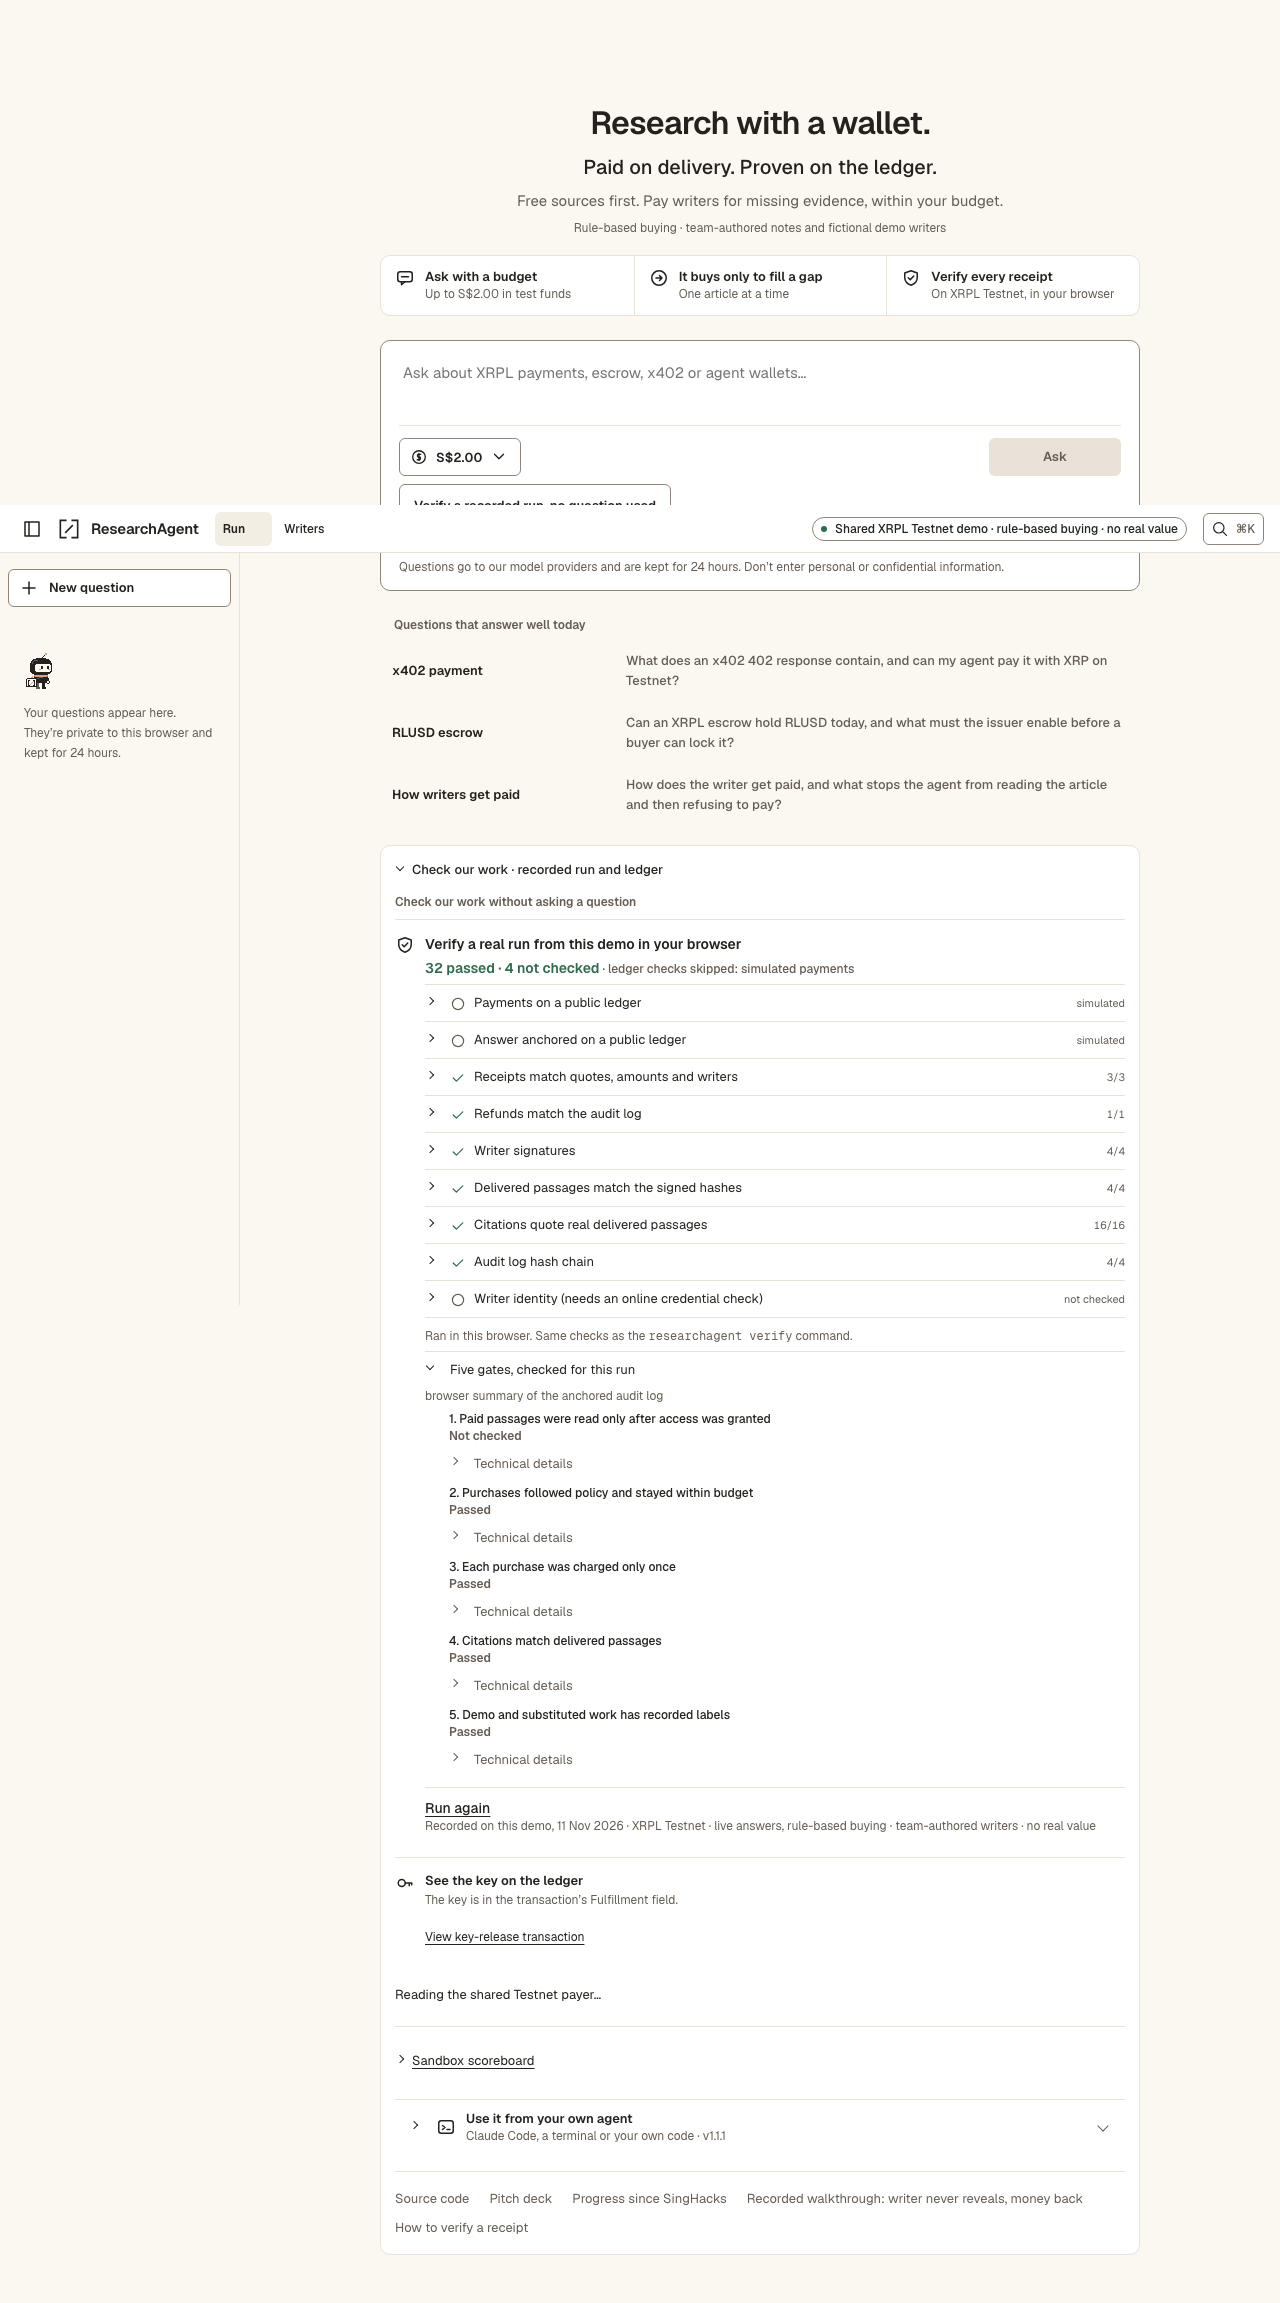
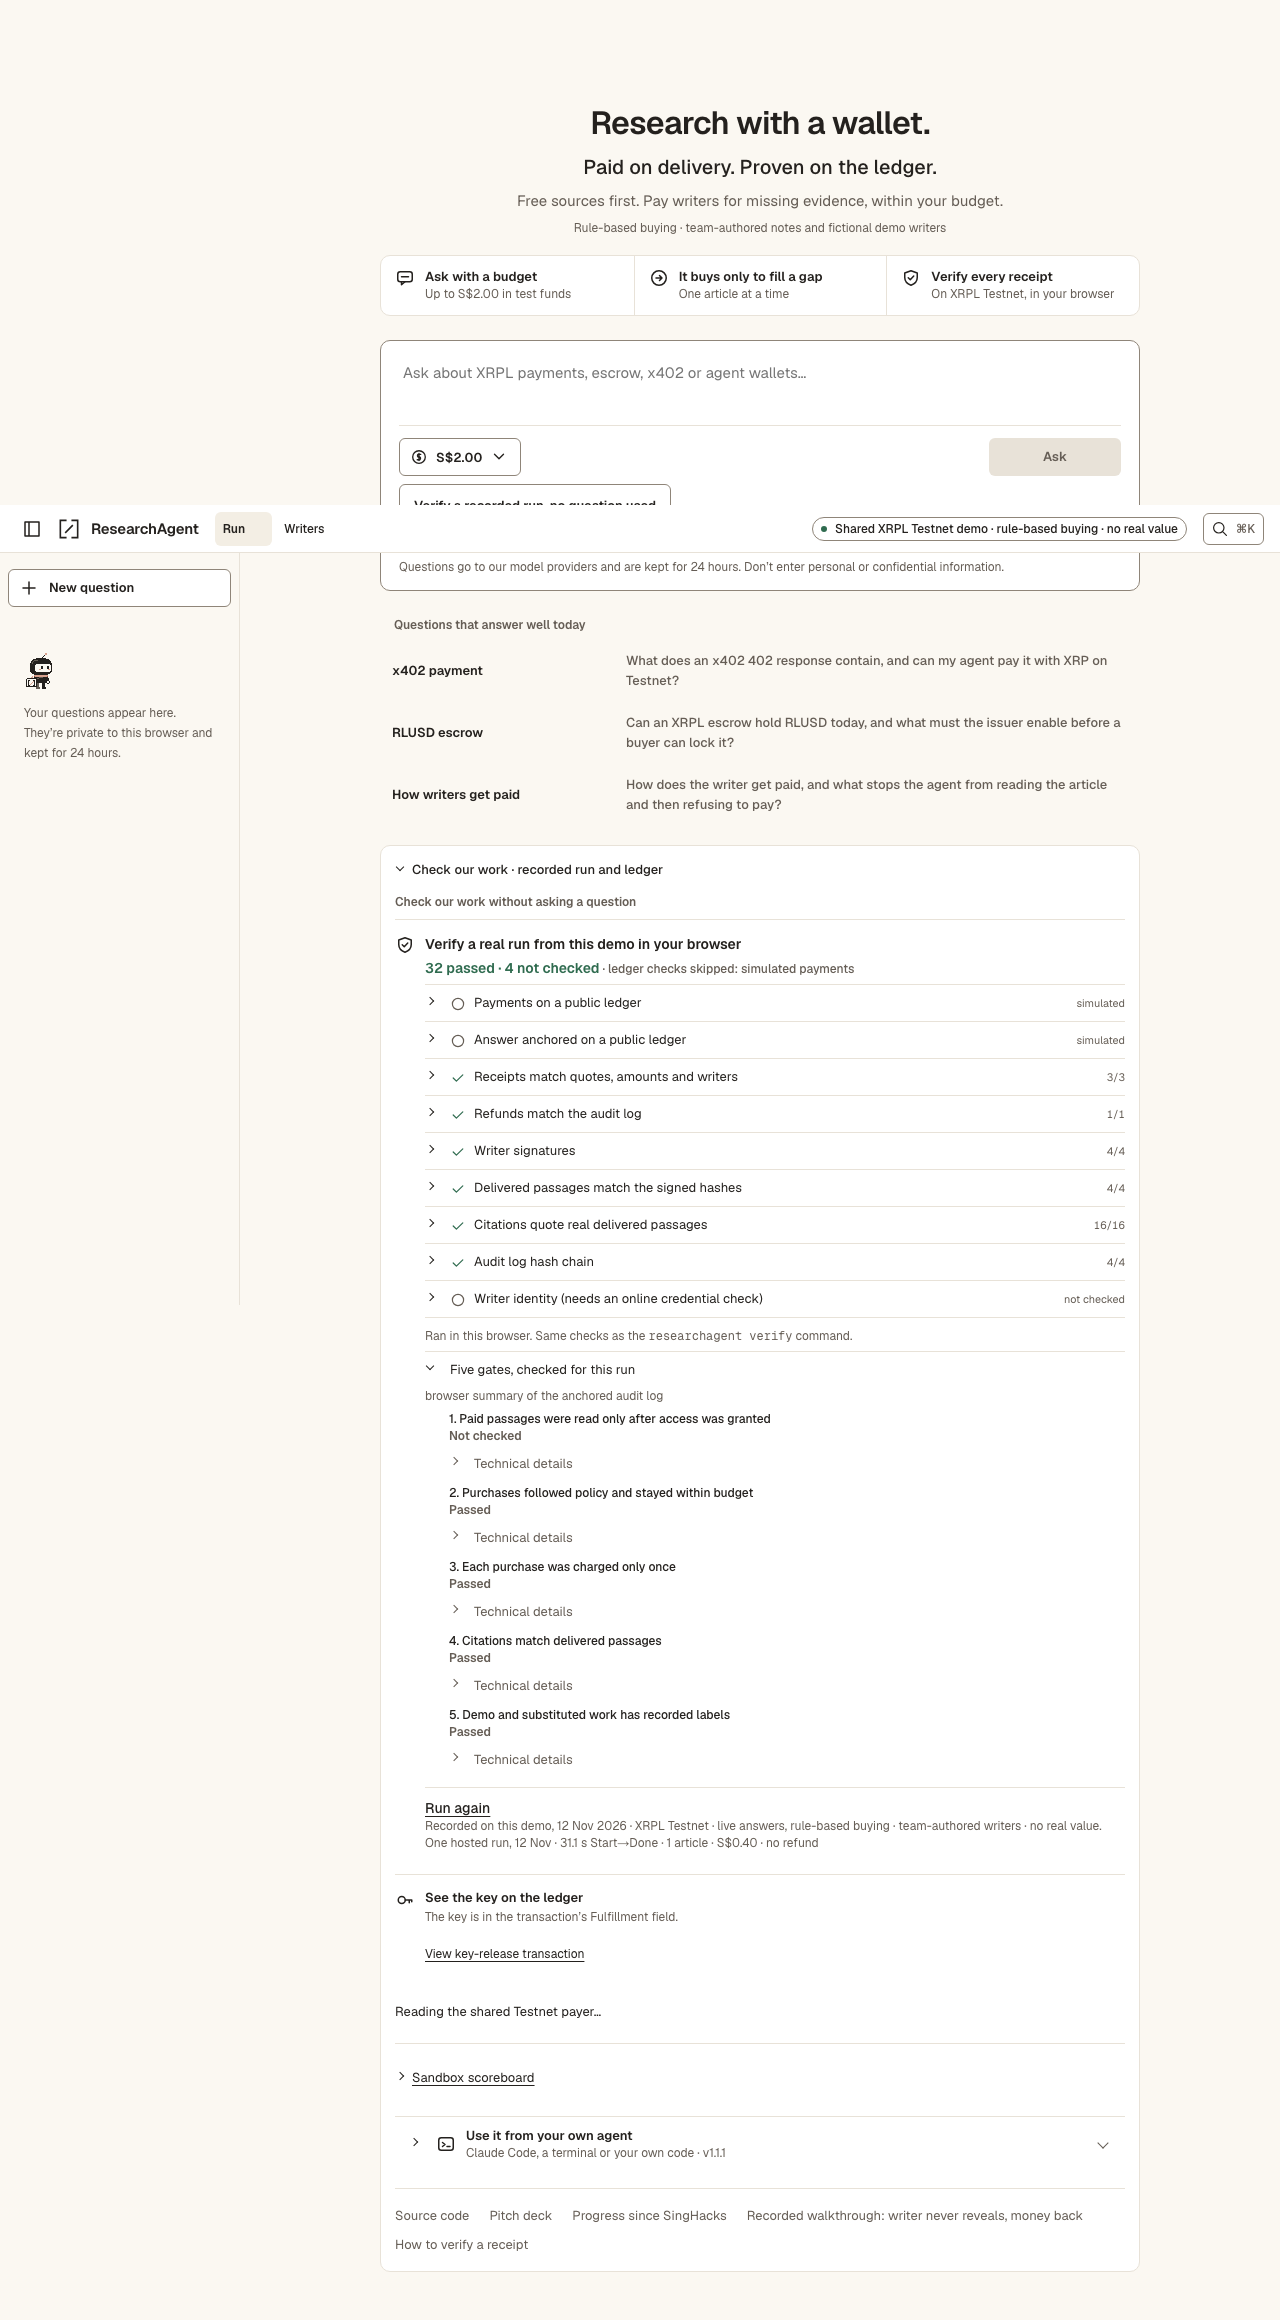
test(ui): refresh evidence for the featured Nov 12 recording

diff --git a/tests/ui-a.spec.ts b/tests/ui-a.spec.ts
@@ -9,6 +9,7 @@ const bundle = JSON.parse(readFileSync('docs/evidence/round4-j1/replays/simulate
 const provenance = 'ResearchAgent builders · XRPL explainers (team-authored) · team-authored explainer · sources cited · not an independent writer · Testnet'
 const status = { questionCapMinor: 200, state: 'ready', csrfToken: 'layout-only', queue: [], capabilities: { ask: true, scope: true, history: true, receipts: true, pdf: false, settings: false, faultControls: false }, remaining: { questions: 5, minor: 1000 }, labels: { models: 'fixture models', rail: 'Shared XRPL Testnet demo · no real value' }, links: { repo: 'https://github.com/Collaboration95/theFastandtheFungible', deck: '', video: '', progress: '', replay: '' } }
 const before = process.env.UI_A_BEFORE === '1'
+const recordedBundlePath = before ? '/judge/hosted-run-nov11.receipts.json' : JSON.parse(readFileSync('shared/judge-run.json', 'utf8')).bundleUrl
 for (const width of [1280, 390]) test(`UI-A fixes at ${width}`, async ({ page }) => {
   await page.setViewportSize({ width, height: width === 390 ? 844 : 800 })
   const run = structuredClone(trace.run)
@@ -24,7 +25,7 @@ for (const width of [1280, 390]) test(`UI-A fixes at ${width}`, async ({ page })
     if (path === '/api/runs') return route.fulfill({ json: [] })
     if (path === '/api/writers/earnings') return route.fulfill({ json: { scope: 'Your purchases and trust come from your retained history. Sales on this demo since 11 Nov include all visitors.', writers: [{ slug: 'team-builder-notes', publisherSlug: 'team-builder-notes', name: 'ResearchAgent builders · Build notes (team-authored)', authorship: 'Team-authored', articleCount: 24, articles: [], priceRange: [40, 40], sales: [], trust: [], demoSales: 24 }] } })
     if (path.endsWith('/events')) return route.fulfill({ contentType: 'text/event-stream', body: '' })
-    if (path.endsWith('/receipts.json') || path === '/judge/hosted-run-nov11.receipts.json') return route.fulfill({ json: bundle })
+    if (path.endsWith('/receipts.json') || path === recordedBundlePath) return route.fulfill({ json: bundle })
     if (path.startsWith('/runs/')) return route.fulfill({ json: run })
     if (path.startsWith('/api/')) return route.fulfill({ status: 404, json: {} })
     if (new URL(route.request().url()).hostname !== '127.0.0.1') return route.abort()

diff --git a/docs/evidence/ui-a/README.md b/docs/evidence/ui-a/README.md
@@ -16,7 +16,7 @@ These are browser viewport checks, not physical-device evidence or a deployed re
 
 The repeatable tests use the committed no-show replay, a synthetic writers response with 24 demo sales, and a layout-only long publisher label. The label is applied to a candidate in memory solely to reproduce the clipping case; signed content and receipts are unchanged. The home Verify response is replaced with a committed simulated UC2 receipt bundle for offline layout checks. These screenshots do not establish a new Testnet payment or new paid-read telemetry.
 
-Separately, the shared preview opened the actual committed `public/judge/hosted-run-nov11.receipts.json` and checked it against the public Testnet node: **45 passed · 2 not checked**, gate 1 Not checked and gates 2–5 Passed. `after-live-recorded-verify-390.png` shows the result; `before-hosted-verify-390.png` is the supplied WALK-1 screenshot (historical hosted deployment, not the local baseline). No new question, payment, provider call or ledger write was made for that check.
+After rebasing onto the new featured proof from PR #511, the shared preview opened the actual committed `public/judge/hosted-run-nov12.receipts.json` and checked it against the public Testnet node: **24 passed · 2 not checked**, all five gates Passed and expanded by default. `after-live-recorded-verify-*.png` show the result; `live-recorded-verify.json` retains the exact headlines and technical text. The earlier Nov 11 recording had 45 passed and 2 not checked, with gate 1 Not checked. `before-hosted-verify-390.png` is the supplied WALK-1 screenshot (historical hosted deployment, not the local baseline). No new question, payment, provider call or ledger write was made for that check.
 
 ## Layout-shift regression
 
@@ -24,7 +24,7 @@ The first locked gate found UC2 replay CLS **0.052649** against the unchanged **
 
 ## Bundle
 
-Node 22.23.4 manifest traversal, including static imports: **158,315 → 158,782 bytes gzip**, below the task’s **160,000 B** limit. Optional verifier/gates stay lazy. The repository’s existing 170,000-byte gate was not changed; the UI-A browser test separately enforces the stricter 160,000-byte requirement.
+Node 22.23.4 manifest traversal, including static imports: **158,315 → 158,900 bytes gzip**, below the task’s **160,000 B** limit. Optional verifier/gates stay lazy. The repository’s existing 170,000-byte gate was not changed; the UI-A browser test separately enforces the stricter 160,000-byte requirement.
 
 ## Reproduce
 

diff --git a/docs/SFF-PUSH.md b/docs/SFF-PUSH.md
@@ -10,7 +10,7 @@ something significant: a feature, a metric move, a finished deliverable. Don't
 add an entry for every small fix. One line per item, newest day first; link the
 PR or issue.
 
-- 12 Nov: UI-A fixes cancelled-payment counts, empty-free-evidence copy, personal/demo sales scope, the composer’s recorded-run Verify entry, wrapping provenance disclosures and plain-language Verify results; 1280/390 px axe checks have no serious/critical violations and initial JS is 158,782 B gzip. [Evidence](evidence/ui-a/README.md).
+- 12 Nov: UI-A fixes cancelled-payment counts, empty-free-evidence copy, personal/demo sales scope, the composer’s recorded-run Verify entry, wrapping provenance disclosures and plain-language Verify results; 1280/390 px axe checks have no serious/critical violations and initial JS is 158,900 B gzip. [Evidence](evidence/ui-a/README.md).
 - 12 Nov: UI-B labels every recorded answer with fixture/fictional provenance and its own payment rail, aligns title/header dates to the run timestamp, reserves separate 44 px phone targets, and closes the drawer after New question/history navigation; 8 replay tests and zero serious/critical axe issues at 1280/390. [Evidence](evidence/ui-b/README.md).
 - 12 Nov: SB-FIX separates empty stopped runs from missing answer/payment anchors in the sandbox scoreboard and gives its anonymous stats route one 60-second public cache policy through both proxies; sessions and other API routes retain no-store.
 - 12 Nov: DEPLOY-4 deploys G1-TEL and features one hosted preset-2 run with all five browser gates Held (grant 1953 before reads 1954–1957): 31.1 s, S$0.40, one article; published v1.1.1 wheel 25/0/2 and TS/browser 24/0/2, Testnet 6/6. Retains the 11 Nov export and adds a five-gate regression; no site publication. [Evidence](evidence/hosted-export-nov12/README.md).
